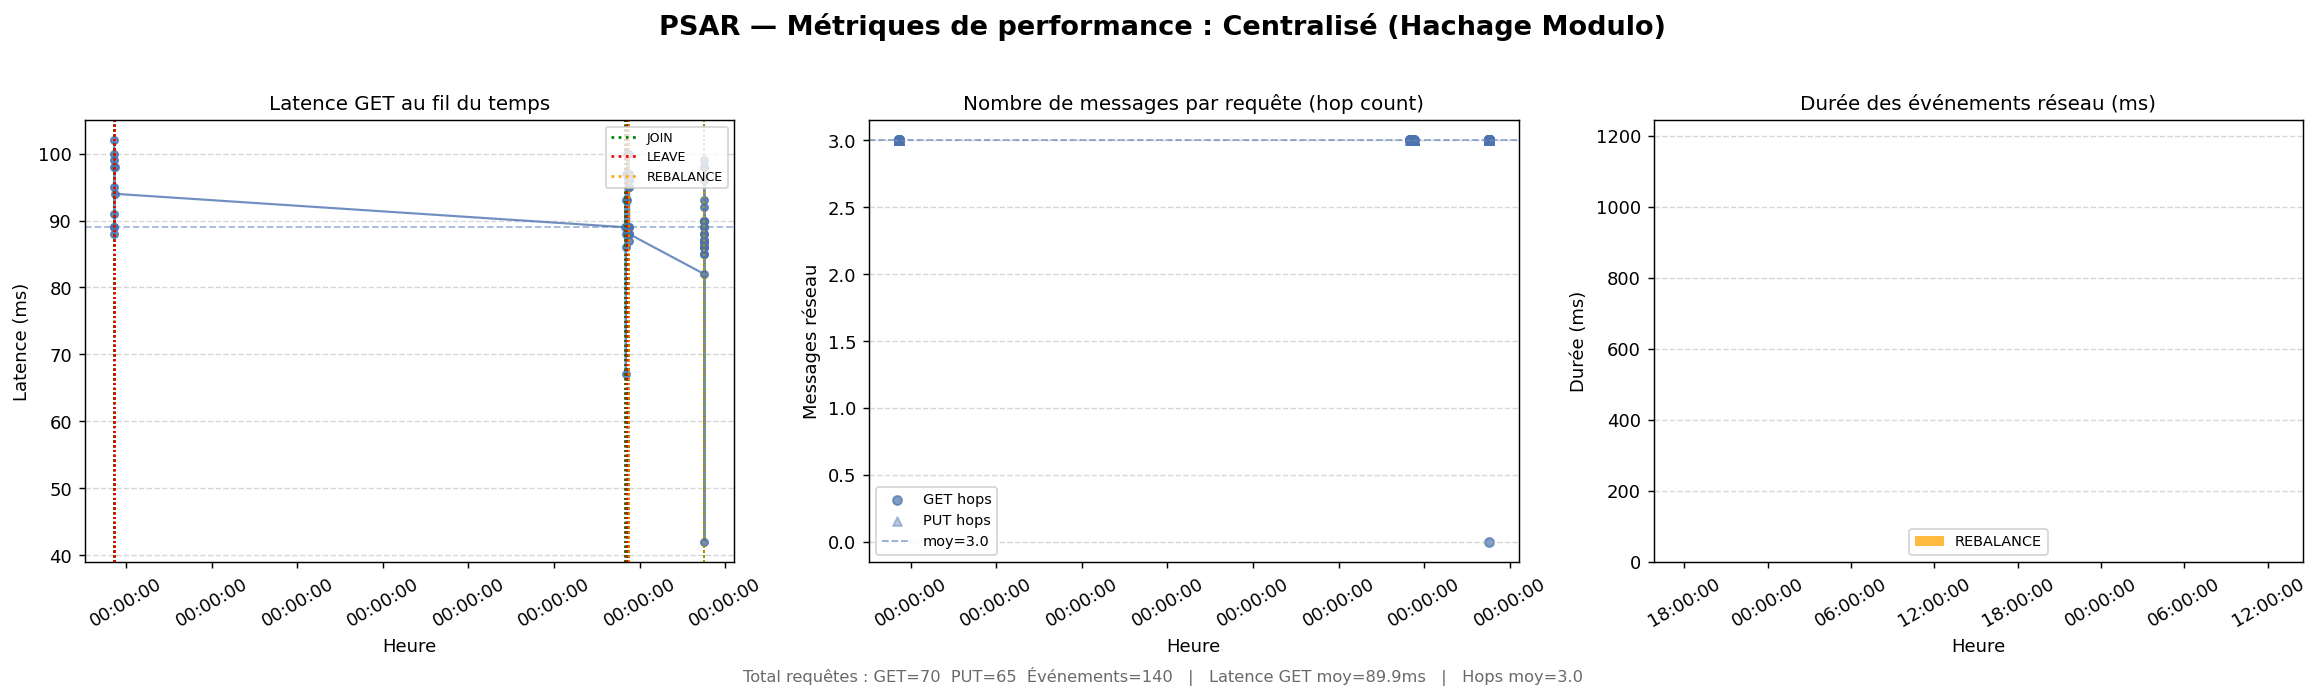
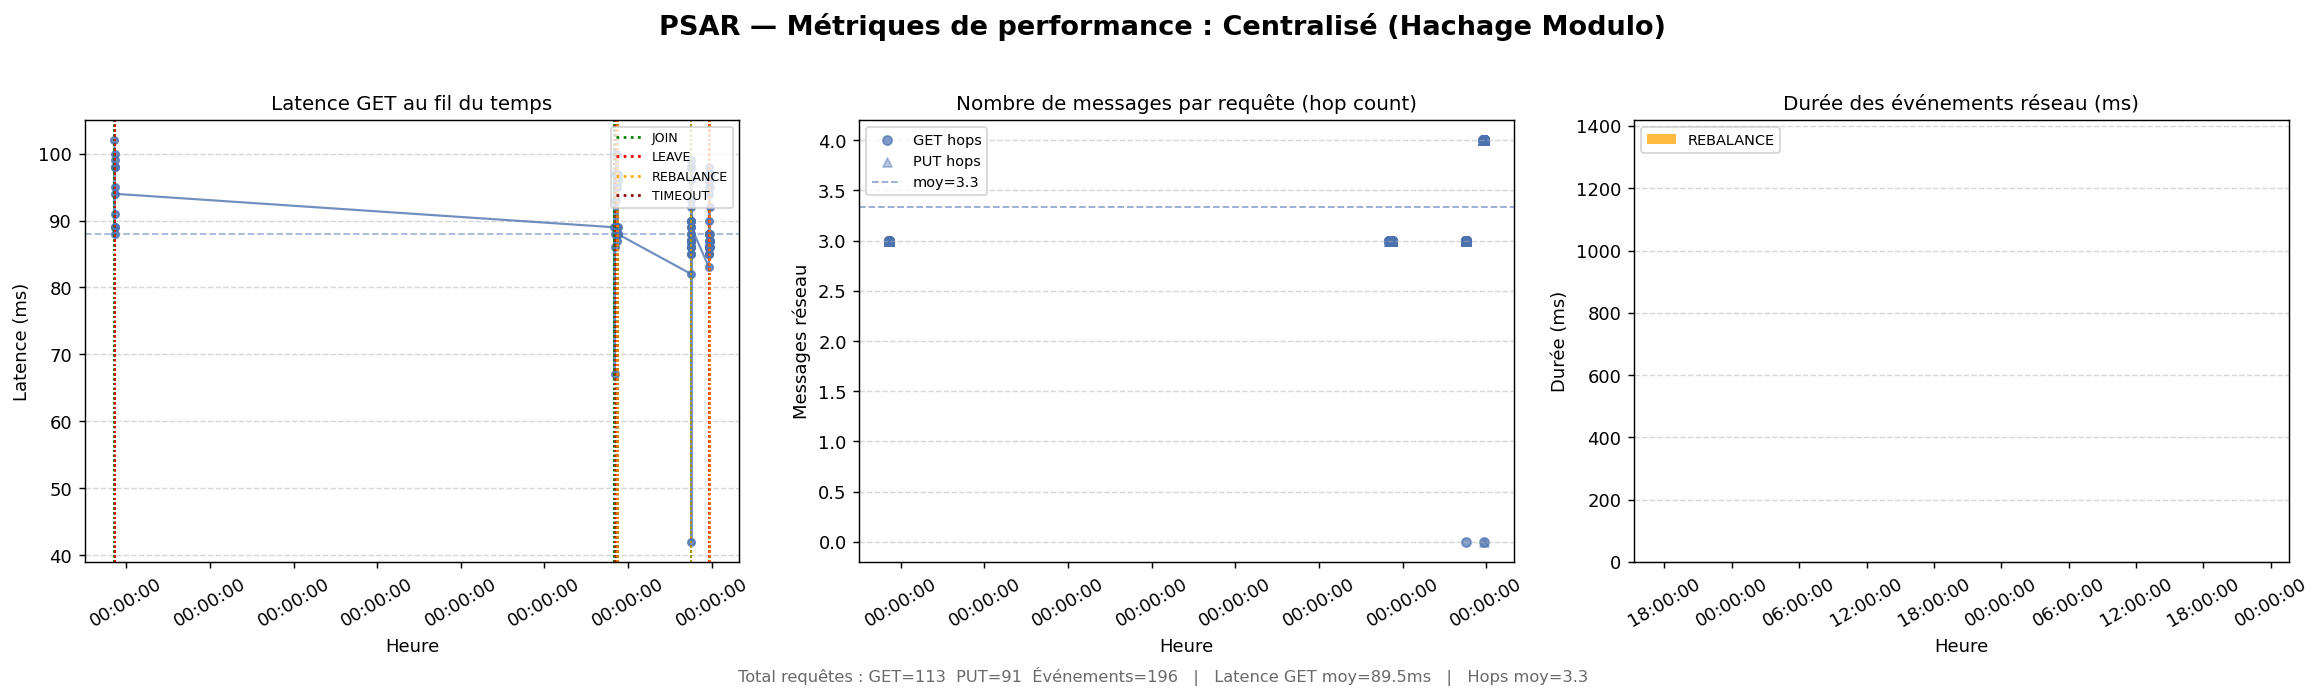
Centralized: correction of concurrence bugs

diff --git a/src/dht/src/moduloHashing/Coordinator.java b/src/dht/src/moduloHashing/Coordinator.java
@@ -20,6 +20,7 @@ public class Coordinator {
     private final Address self;
     private final List<Address> storageNodes = new ArrayList<>();
     private final Map<Address, Long> lastSeen = new ConcurrentHashMap<>();
+    private final java.util.Set<Address> recentlyLeft = ConcurrentHashMap.newKeySet();
 
     private volatile boolean running = true;
     private ServerSocket serverSocket;
@@ -110,7 +111,7 @@ public class Coordinator {
         }
     }
 
-    private synchronized Message processRequest(Message msg) {
+    private Message processRequest(Message msg) {
         if (msg == null || msg.getType() == null) {
             return Message.error("Invalid message");
         }
@@ -142,133 +143,134 @@ public class Coordinator {
 
     private Message handleRegisterNode(Message msg) {
         Address node = msg.getSource();
-        if (node == null) {
-            return Message.error("REGISTER_NODE missing source");
-        }
+        if (node == null) return Message.error("REGISTER_NODE missing source");
 
-        if (!storageNodes.contains(node)) {
-            storageNodes.add(node);
-            lastSeen.put(node, System.currentTimeMillis());
-            System.out.println("[JOIN] Node registered: " + node);
-            MetricsLogger.get().log("JOIN", 0, 0, "", "node=" + node);
-            rebalance("Node joined: " + node, Map.of());
-        } else {
-            lastSeen.put(node, System.currentTimeMillis());
+        boolean shouldRebalance = false;
+        synchronized (this) {
+            if (!storageNodes.contains(node)) {
+                storageNodes.add(node);
+                lastSeen.put(node, System.currentTimeMillis());
+                recentlyLeft.remove(node);
+                System.out.println("[JOIN] Node registered: " + node);
+                MetricsLogger.get().log("JOIN", 0, 0, "", "node=" + node);
+                shouldRebalance = true;
+            } else {
+                lastSeen.put(node, System.currentTimeMillis());
+            }
         }
-
+        if (shouldRebalance) rebalance("Node joined: " + node, Map.of());
         return Message.ack("Node registered: " + node);
     }
 
     private Message handleUnregisterNode(Message msg) {
         Address leavingNode = msg.getSource();
-        if (leavingNode == null) {
-            return Message.error("UNREGISTER_NODE missing source");
-        }
+        if (leavingNode == null) return Message.error("UNREGISTER_NODE missing source");
 
         System.out.println("[LEAVE] Node unregister request: " + leavingNode);
         MetricsLogger.get().log("LEAVE", 0, 0, "", "node=" + leavingNode);
 
-        // Try to salvage data from leaving node before removal
         Map<String, String> leavingData = requestDump(leavingNode);
 
-        storageNodes.remove(leavingNode);
-        lastSeen.remove(leavingNode);
-
+        synchronized (this) {
+            storageNodes.remove(leavingNode);
+            lastSeen.remove(leavingNode);
+        }
+        recentlyLeft.add(leavingNode);
         rebalance("Node left: " + leavingNode, leavingData);
         return Message.ack("Node unregistered: " + leavingNode);
     }
 
     private Message handleHeartbeat(Message msg) {
         Address node = msg.getSource();
-        if (node == null) {
-            return Message.error("HEARTBEAT missing source");
-        }
+        if (node == null) return Message.error("HEARTBEAT missing source");
 
-        if (!storageNodes.contains(node)) {
-            // If a node sends heartbeat without being registered, re-register it logically
-            storageNodes.add(node);
-            System.out.println("[HEARTBEAT] Auto-adding unknown node (no rebalance): " + node);
+        synchronized (this) {
+            if (!storageNodes.contains(node)) {
+                if (recentlyLeft.contains(node)) {
+                    lastSeen.put(node, System.currentTimeMillis());
+                    return Message.heartbeatAck("Heartbeat received from " + node);
+                }
+                storageNodes.add(node);
+                System.out.println("[HEARTBEAT] Auto-adding unknown node (no rebalance): " + node);
+            }
+            lastSeen.put(node, System.currentTimeMillis());
         }
-
-        lastSeen.put(node, System.currentTimeMillis());
         return Message.heartbeatAck("Heartbeat received from " + node);
     }
 
     private Message handleClientPut(Message msg) {
         if (msg.getKey() == null) return Message.error("CLIENT_PUT missing key");
-        if (storageNodes.isEmpty()) return Message.error("No storage nodes available");
 
-        Address target = Hasher.getTargetNode(msg.getKey(), snapshotNodes());
+        Address target;
+        synchronized (this) {
+            if (storageNodes.isEmpty()) return Message.error("No storage nodes available");
+            target = Hasher.getTargetNode(msg.getKey(), snapshotNodes());
+        }
 
-        
-        Message nodeMsg  = Message.nodePut(msg.getKey(), msg.getValue()).withNextHop();
+        Message nodeMsg = new Message(Message.Type.NODE_PUT, null,msg.getKey(), msg.getValue(), false, null, null, msg.getHopCount() + 1, null, null);
         Message nodeResp = sendRequest(target, nodeMsg);
-        // hop 3 : node → coordinator  
-        if (nodeResp == null || nodeResp.getType() == Message.Type.ERROR) {
-            return Message.error("PUT failed on target " + target);
-        }
-        
-        if (nodeResp.getType() == Message.Type.REBALANCING) {
-        	return Message.rebalancing();
-        }
 
-        // hop 4 : coordinator → client 
-        int finalHops = nodeMsg.getHopCount() + 1 + 1; // coord→node(2) + ack node(3) 
-        return Message.clientResponse(true, msg.getKey(), msg.getValue(), "Stored on " + target, finalHops);
+        if (nodeResp == null || nodeResp.getType() == Message.Type.ERROR)
+            return Message.error("PUT failed on target " + target);
+
+        if (nodeResp.getType() == Message.Type.REBALANCING)
+            return Message.rebalancing();
+
+        int finalHops = nodeMsg.getHopCount() + 1 + 1;
+        return Message.clientResponse(true, msg.getKey(), msg.getValue(),
+                "Stored on " + target, finalHops);
     }
 
     private Message handleClientGet(Message msg) {
         if (msg.getKey() == null) return Message.error("CLIENT_GET missing key");
-        if (storageNodes.isEmpty()) return Message.error("No storage nodes available");
 
-        Address target = Hasher.getTargetNode(msg.getKey(), snapshotNodes());
+        Address target;
+        synchronized (this) {
+            if (storageNodes.isEmpty()) return Message.error("No storage nodes available");
+            target = Hasher.getTargetNode(msg.getKey(), snapshotNodes());
+        }
 
-        // hop 2 : coordinator → node
-        Message nodeMsg  = Message.nodeGet(msg.getKey()).withNextHop();
+        Message nodeMsg = new Message(Message.Type.NODE_GET, null,msg.getKey(), null, false, null, null, msg.getHopCount() + 1, null, null);
         Message nodeResp = sendRequest(target, nodeMsg);
-        // hop 3 : node → coordinator
 
-        if (nodeResp == null || nodeResp.getType() == Message.Type.ERROR) {
+        if (nodeResp == null || nodeResp.getType() == Message.Type.ERROR)
             return Message.error("GET failed on target " + target);
-        }
-        
-        if (nodeResp.getType() == Message.Type.REBALANCING) {
-        	return Message.rebalancing();
-        }
-        
-        if (nodeResp.getType() == Message.Type.NODE_RESPONSE) {
-            // hop 4 : coordinator → client
-            int finalHops = nodeMsg.getHopCount() + 1 + 1;
-            return Message.clientResponse(nodeResp.isFound(), msg.getKey(), nodeResp.getValue(), "Read from " + target, finalHops);
-        }
 
+        if (nodeResp.getType() == Message.Type.REBALANCING)
+            return Message.rebalancing();
+
+        if (nodeResp.getType() == Message.Type.NODE_RESPONSE) {
+            int finalHops = nodeMsg.getHopCount() + 1 + 1;
+            return Message.clientResponse(nodeResp.isFound(), msg.getKey(),
+                    nodeResp.getValue(), "Read from " + target, finalHops);
+        }
         return Message.error("Unexpected response from " + target);
     }
     
     private Message handleClientDelete(Message msg) {
         if (msg.getKey() == null) return Message.error("CLIENT_DELETE missing key");
-        if (storageNodes.isEmpty()) return Message.error("No storage nodes available");
 
-        Address target = Hasher.getTargetNode(msg.getKey(), snapshotNodes());
+        Address target;
+        synchronized (this) {
+            if (storageNodes.isEmpty()) return Message.error("No storage nodes available");
+            target = Hasher.getTargetNode(msg.getKey(), snapshotNodes());
+        }
 
-        Message nodeMsg  = Message.nodeDelete(msg.getKey()).withNextHop();
+        Message nodeMsg = new Message(Message.Type.NODE_DELETE, null,msg.getKey(), null, false, null, null, msg.getHopCount() + 1, null, null);
         Message nodeResp = sendRequest(target, nodeMsg);
 
-        if (nodeResp == null || nodeResp.getType() == Message.Type.ERROR) {
+        if (nodeResp == null || nodeResp.getType() == Message.Type.ERROR)
             return Message.error("DELETE failed on target " + target);
-        }
 
-        if (nodeResp.getType() == Message.Type.REBALANCING) {
-        	return Message.rebalancing();
-        }
-            
+        if (nodeResp.getType() == Message.Type.REBALANCING)
+            return Message.rebalancing();
+
         if (nodeResp.getType() == Message.Type.NODE_RESPONSE) {
             int finalHops = nodeMsg.getHopCount() + 1 + 1;
             boolean existed = nodeResp.isFound();
             String info = existed ? "Deleted from " + target : "Key not found on " + target;
             return Message.clientResponse(existed, msg.getKey(), null, info, finalHops);
         }
-
         return Message.error("Unexpected response from " + target);
     }
 
@@ -287,13 +289,16 @@ public class Coordinator {
                             deadNodes.add(node);
                         }
                     }
-
                     for (Address dead : deadNodes) {
                         System.out.println("[TIMEOUT] Node considered dead: " + dead);
                         storageNodes.remove(dead);
                         lastSeen.remove(dead);
-                        rebalance("Node timeout detected: " + dead, Map.of());
+                        recentlyLeft.remove(dead);
                     }
+                }
+                for (Address dead : deadNodes) {
+                    MetricsLogger.get().log("NODE_TIMEOUT", 0, 0, "", "node=" + dead);
+                    rebalance("Node timeout detected: " + dead, Map.of());
                 }
 
             } catch (InterruptedException e) {
@@ -303,7 +308,10 @@ public class Coordinator {
     }
 
     private void rebalance(String reason, Map<String, String> extraData) {
-        List<Address> nodes = snapshotNodes();
+    	List<Address> nodes;
+        synchronized (this) {
+            nodes = snapshotNodes();
+        }
 
         if (nodes.isEmpty()) {
             System.out.println("[REBALANCE] No nodes available. Rebalance skipped.");
@@ -439,7 +447,7 @@ public class Coordinator {
         if (serverSocket != null && !serverSocket.isClosed()) {
             try {
                 serverSocket.close();
-            } catch (Exception e) {
+            } catch (Exception ignored) {
             }
         }
 

diff --git a/src/dht/src/moduloHashing/Node.java b/src/dht/src/moduloHashing/Node.java
@@ -23,6 +23,7 @@ public class Node {
     private volatile boolean rebalancing = false;
 
     private static final int CONNECT_TIMEOUT_MS = 2000;
+    private static final int TRANSFER_TIMEOUT_MS = 10000;
     private static final int HEARTBEAT_INTERVAL_MS = 5000;
 
     public Node(int port, Address coordinator) {
@@ -159,7 +160,6 @@ public class Node {
             case NODE_DELETE -> handleNodeDelete(msg);
             case NODE_PUT_INTERNAL -> handleNodePutInternal(msg);
             case DUMP_REQUEST  -> handleDumpRequest();
-            case CLEAR_STORE   -> handleClearStore();
             case REBALANCE     -> handleRebalanceNotice(msg);
             case REBALANCE_DONE -> handleRebalanceDone();
             case TRANSFER_KEYS -> handleTransferKeys(msg);
@@ -216,11 +216,6 @@ public class Node {
         return Message.dumpResponse(self, new HashMap<>(store));
     }
  
-    private Message handleClearStore() {
-        store.clear();
-        System.out.println("[CLEAR] " + self + " local store cleared");
-        return Message.ack("Store cleared on " + self);
-    }
  
     private Message handleRebalanceNotice(Message msg) {
     	System.out.println("[REBALANCE START] " + self + " — blocking client requests.");
@@ -256,11 +251,12 @@ public class Node {
         }
 
         if (batch.isEmpty()) {
-            return Message.error("Transfer: no keys found locally");
+        	System.out.println("[TRANSFER] No keys found locally — already transferred or removed.");
+            return Message.ack("Nothing to transfer (0 keys found)");
         }
 
         
-        Message putResp = sendRequest(destination, Message.nodeBatchPut(batch));
+        Message putResp = sendRequestWithTimeout(destination, Message.nodeBatchPut(batch), TRANSFER_TIMEOUT_MS);
 
         if (putResp != null && putResp.getType() == Message.Type.ACK) {
             
@@ -289,6 +285,26 @@ public class Node {
                 if (obj instanceof Message response) {
                     return response;
                 }
+                return Message.error("Invalid response type");
+            }
+        } catch (Exception e) {
+            return Message.error("Request to " + dest + " failed: " + e.getMessage());
+        }
+    }
+    
+    private Message sendRequestWithTimeout(Address dest, Message message, int timeoutMs) {
+        try (Socket socket = new Socket()) {
+            socket.connect(new InetSocketAddress(dest.getIp(), dest.getPort()), timeoutMs);
+            socket.setSoTimeout(timeoutMs);
+
+            try (ObjectOutputStream out = new ObjectOutputStream(socket.getOutputStream());
+                 ObjectInputStream  in  = new ObjectInputStream(socket.getInputStream())) {
+                out.flush();
+                out.writeObject(message);
+                out.flush();
+
+                Object obj = in.readObject();
+                if (obj instanceof Message response) return response;
                 return Message.error("Invalid response type");
             }
         } catch (Exception e) {

diff --git a/src/dht/src/moduloHashing/Message.java b/src/dht/src/moduloHashing/Message.java
@@ -28,7 +28,6 @@ public class Message implements Serializable {
 
         DUMP_REQUEST,
         DUMP_RESPONSE,
-        CLEAR_STORE,
 
         REBALANCE,
         REBALANCE_DONE,
@@ -92,13 +91,6 @@ public class Message implements Serializable {
     public Map<String,String> getData() {
         return data == null ? Collections.emptyMap() : Collections.unmodifiableMap(data);
     }
-
-  
-    public Message withNextHop() {
-        return new Message(type, source, key, value, found, info, data,
-                hopCount + 1, transferDest, transferKeys);
-    }
-
    
     public static Message clientPut(String key, String value) {
         return new Message(Type.CLIENT_PUT, null, key, value, false, null, null, 1, null, null);
@@ -163,9 +155,6 @@ public class Message implements Serializable {
         return new Message(Type.DUMP_RESPONSE, node, null, null, false, null, data);
     }
 
-    public static Message clearStore() {
-        return new Message(Type.CLEAR_STORE, null, null, null, false, null, null);
-    }
 
     public static Message rebalance(String info) {
         return new Message(Type.REBALANCE, null, null, null, false, info, null);
